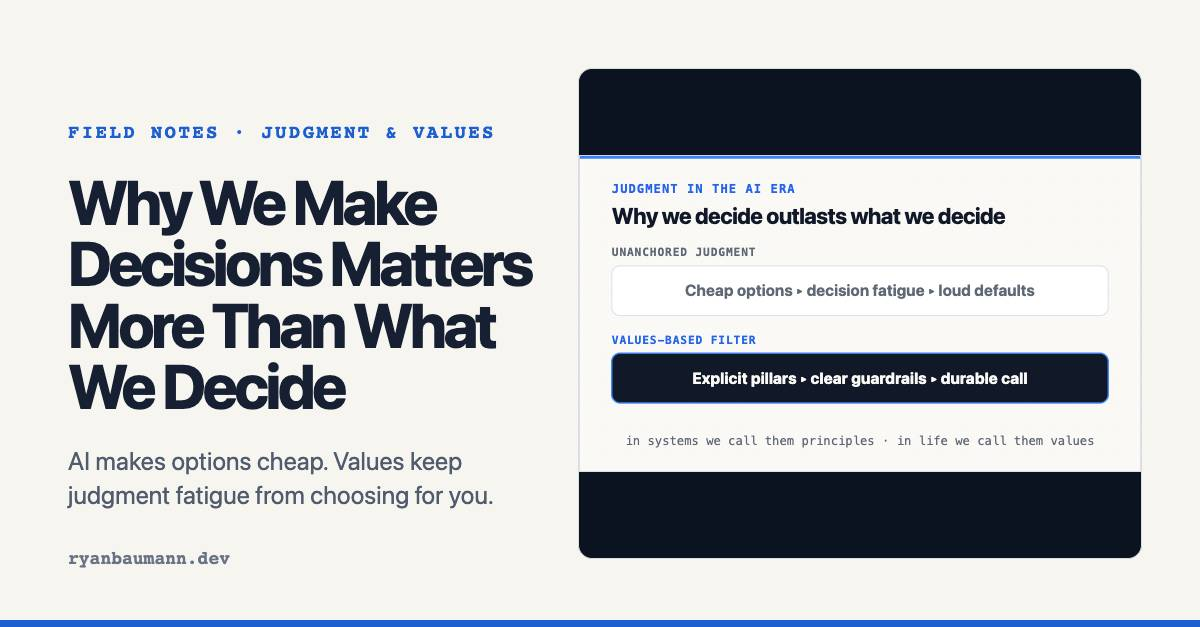
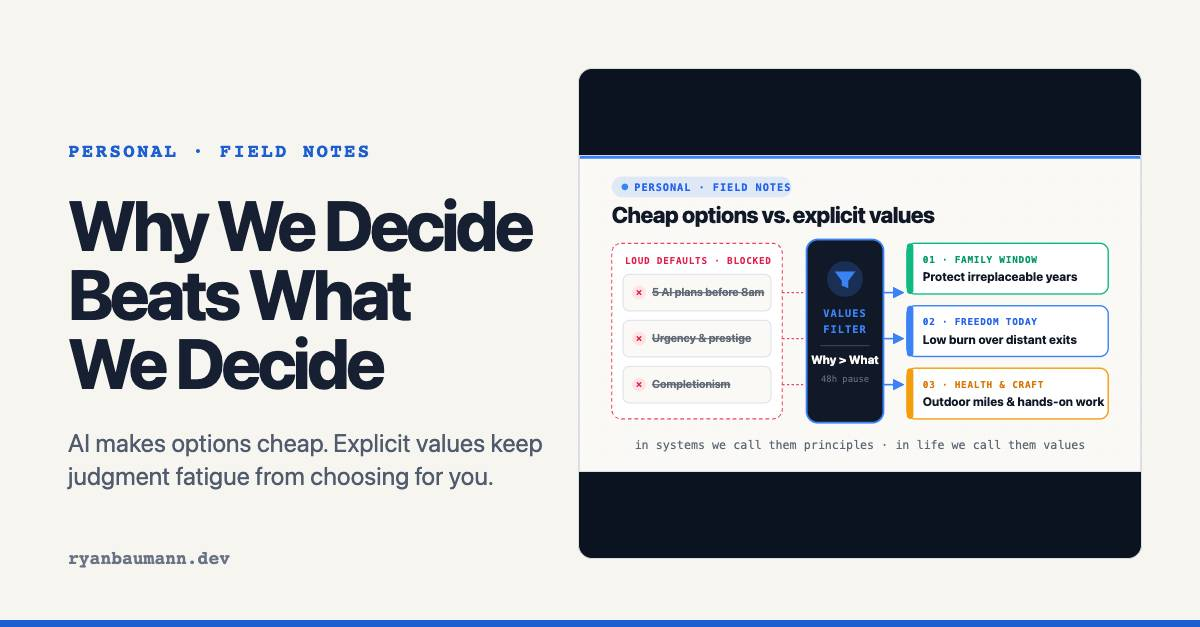
writing: shorten headline, add Personal category, LinkedIn blurb, and header thumbnail

diff --git a/portfolio/content/writing/why-we-make-decisions.md b/portfolio/content/writing/why-we-make-decisions.md
@@ -1,29 +1,47 @@
 ---
-title: Why We Make Decisions Is More Important Than What Decisions We Make
+title: Why We Decide Beats What We Decide
 slug: why-we-make-decisions
+type: Personal
 summary: AI makes generating options nearly free, which shifts the bottleneck to human judgment and makes explicit personal values the only durable filter against decision fatigue.
 date: 2026-11-01
 updated: 2026-11-01
 canonical: https://ryanbaumann.dev/writing/why-we-make-decisions/
 image: /img/writing/why-we-make-decisions-header.svg
-imageAlt: Two horizontal tracks contrast unanchored judgment, where cheap options lead to decision fatigue and loud defaults, with a values-based filter where explicit pillars and guardrails produce a durable call.
+imageAlt: A values filter diagram showing noisy defaults on the left (five AI plans before 8am, urgency and prestige, and completionism) blocked by a central Values Filter gate, while three personal pillars pass through on the right: Family Window, Freedom Today, and Health and Craft.
 socialImage: /social/why-we-make-decisions.jpg
-shareTitle: Why We Make Decisions Matters More Than What We Decide
+shareTitle: Why We Decide Matters More
 shareSummary: AI makes options cheap, which maxes out judgment fatigue across work and life. Writing down explicit values is how you keep loud defaults from choosing for you.
-shareImageAlt: A social preview card contrasting unanchored judgment and decision fatigue against an explicit values-based filter.
-tags: ["ai", "product", "field notes"]
+shareImageAlt: A social preview card for Why We Decide Beats What We Decide showing noisy defaults blocked by a Values Filter gate while three personal pillars pass through.
+tags: ["personal", "ai", "field notes"]
 draft: true
 noindex: true
 ---
 
-"You just need better options" is the lie you tell yourself when you're tired of deciding. Late on a Sunday night a few weeks ago, my partner and I were staring at a spreadsheet of trade-offs for our next few years, and I realized I was arguing for an option I didn't even want. I've been trying to make a bunch of consequential decisions lately, and the fatigue had quietly shifted my criteria toward reasons that aren't actually important to me. Maybe that's just a function of getting older, or maybe it comes with a growing family where evenings and energy have hard limits; whatever the mix, I get it. Yet watching AI compress every workflow around us, I think judgment fatigue is maxing out for everybody right now, regardless of what stage of life they're in.
+"You just need better options" is the lie you tell yourself when you're tired of deciding. Late on a Sunday night, my partner and I stared at a spreadsheet of trade-offs for our next few years, and I caught myself arguing for a path I didn't even want. I've been trying to make a bunch of hard decisions lately, and the fatigue had quietly shifted my criteria toward reasons that aren't actually important to me. Maybe that's a function of getting older, or maybe it comes with a growing family where evenings and energy have strict limits. Whatever the mix, watching AI speed up the work around us makes one thing clear: judgment fatigue is maxing out for everybody right now, at every stage of life.
 
-When generation gets cheap, evaluation becomes the whole game. As I wrote in [When the Answer Gets Cheap, the Question Becomes the Job](/writing/ai-saves-the-hour/), our tools eat the mechanical middle of assembling options and leave us with the harder work of deciding which constraint is binding. Aristotle drew a sharp line between technical skill (*techne*), which knows how to build a road, and practical wisdom (*phronesis*), which knows why one destination is worth the trip in a finite, messy life. When an agent or a colleague can hand you five defensible plans before breakfast, having more options doesn't make you wiser; without a clear aim, it just burns through your judgment faster until you rubber-stamp whatever looks urgent or prestigious.
+AI makes generating options cheap, which makes human judgment the bottleneck. As I found when building [an AI writing agent that doesn't write slop](/writing/can-i-build-an-ai-agent-that-doesnt-write-slop/), our tools handle the grunt work of assembling drafts and options, leaving us with the harder job of deciding what actually matters. Aristotle drew a sharp line between technical skill (*techne*), which knows how to build a road, and practical wisdom (*phronesis*), which knows why one destination is worth the trip in a finite life. When an agent or a colleague can hand you five plausible plans before breakfast, having more options doesn't make you wiser. Without a clear aim, it just burns through your judgment faster until you sign off on whatever looks urgent or prestigious.
 
 ![Two side-by-side panels show zero-weight motives to cut on the left and core pillars to protect on the right: irreplaceable family time, low-burn optionality, and high-agency craft and vitality.](/img/writing/why-we-make-decisions-filter.svg)
 
-In engineering, we keep an agent or a team from drifting by writing down operating principles and [agentic evals](/work/agentic-evals/) before we inspect the output; in life, I call those principles values. What do you want out of your life, and what do you want out of your job? Being intentional about those answers is more important than ever, so my partner and I wrote ours down around a few core pillars: protecting irreplaceable windows with our family before those years pass, keeping our fixed monthly burn low so we buy autonomy today rather than deferring it to a distant exit date, and staying healthy for challenging outdoor runs and rides while doing high-agency technical craft.
+In engineering, we keep an agent or a team from drifting by writing down operating principles and [evaluation criteria](/work/agentic-evals/) before we grade the work; in life, I call those principles values. What do you want out of your life, and what do you want out of your job? Being intentional about those answers is more important than ever, so my partner and I wrote ours down around three pillars: protecting irreplaceable years with our family while our window together is wide open, keeping our fixed monthly burn low so we buy freedom today instead of deferring it to a distant exit date, and staying healthy for long outdoor runs and rides while doing hands-on technical work.
 
-The real value of that list shows up when you use it to strip zero-weight motives out of the room before you score a single option. Whenever my partner and I evaluate a major commitment at home or in my career, we sort the drivers into two buckets: we keep recurring joy, craft, and coaching capable builders, and we assign zero weight to completionism ("while we're already in here, we might as well do the whole thing"), title scarcity, or acting as a human shock absorber for a broken system. We also test the actual week rather than the pitch, because loving a problem space like enterprise AI agents won't protect your health or your family calendar if the role lacks the trust and commitment authority to cut scope when a dependency slips.
+That list earns its keep by stripping noise out of the room before you score a single option. Whenever my partner and I weigh a major commitment at home or in my career, we separate the motives that matter from the ones that just sound convincing: we keep recurring joy, craft, and mentoring capable builders, and we give zero weight to completionism ("while we're already in here, we might as well do the whole thing"), title chasing, or serving as a human buffer for a broken system. We also test the actual Tuesday rather than the pitch, because loving a domain like enterprise AI agents won't protect your health or your family calendar if you lack the trust and authority to cut scope when a dependency slips.
 
-I'm still figuring out how to hold that line when a week gets noisy, and I still catch myself reaching for the easy default when I'm tired. Having our values on paper just means my partner and I can spot the drift early, pause for forty-eight hours, and make sure why we're deciding matches the life we're trying to build. How are you keeping judgment fatigue from hijacking your big calls? Let me know in the comments or [send me a note](/contact/).
+I still slip when a week gets noisy, and I still catch myself reaching for the easy default when I'm tired. Putting our values on paper gives my partner and me a way to spot that drift early, pause for forty-eight hours, and check that why we're deciding matches the life we're trying to build. How are you keeping judgment fatigue from steering your big calls? Let me know in the comments or [send me a note](/contact/).
+
+---
+
+## LinkedIn Blurb {#linkedin-blurb}
+
+> "You just need better options" is the lie you tell yourself when you're tired of deciding.
+>
+> Late on a Sunday night, my partner and I stared at a spreadsheet of trade-offs for our next few years, and I caught myself arguing for a path I didn't even want. Decision fatigue had quietly shifted my criteria toward reasons that aren't actually important to me.
+>
+> AI makes generating options nearly free, which makes human judgment the real bottleneck. When an agent or a colleague can hand you five plausible plans before breakfast, more options don't make you wiser. They just burn through your judgment faster until you sign off on whatever looks urgent or prestigious.
+>
+> In engineering, we keep an agent from drifting by writing down operating principles before we grade the output. In life, I call those principles values:
+> 1. **Protect the family window:** Trade upside for presence while our years together at home are wide open.
+> 2. **Buy freedom today:** Keep fixed monthly burn low instead of deferring autonomy to a distant exit date.
+> 3. **Stay close to health and craft:** Protect outdoor miles and hands-on building over status or completionism.
+>
+> Full note on why we decide vs. what we decide: [https://ryanbaumann.dev/writing/why-we-make-decisions/?utm_source=linkedin&utm_medium=organic_social&utm_campaign=fn_why_we_make_decisions_202611&utm_content=post_hook_a](https://ryanbaumann.dev/writing/why-we-make-decisions/?utm_source=linkedin&utm_medium=organic_social&utm_campaign=fn_why_we_make_decisions_202611&utm_content=post_hook_a)

diff --git a/LEARNINGS.md b/LEARNINGS.md
@@ -2,6 +2,16 @@
 
 This log captures durable lessons discovered while building and maintaining the portfolio and demo lab, keeping the root instructions lean.
 
+## 2026-11-01 - Draft essays in `portfolio/content/writing/` cannot link to other unpublished drafts unless both publish together
+
+Context: Adding `portfolio/content/writing/why-we-make-decisions.md` (`draft: true`) with an internal link to `/writing/ai-saves-the-hour/` passed `PORTFOLIO_WRITER_MODE=true node portfolio/build.mjs` and `npm run check:content`, but failed `node portfolio/build.mjs` (`npm --prefix portfolio test`) with `broken internal link /writing/ai-saves-the-hour/`. Additionally, previewing the draft in `scripts/writer_app.mjs` (`http://localhost:8090/`) omitted the frontmatter hero thumbnail (`meta.image`) and returned `404` on `/img/writing/...` assets.
+
+Learning: `validateContent()` in `portfolio/build.mjs` validates internal links across all markdown entries (including `draft: true` entries) against `validPaths`, which in non-writer builds only includes published entries (`draft: false`). Linking from any markdown entry to an unpublished draft breaks the production portfolio build. Second, `scripts/writer_app.mjs` compiles markdown independently of `portfolio/dist/` and needed both `<img class="article-hero" ...>` in `renderFullArticleHtml` / `renderRichDiffArticleHtml` and static file serving from `portfolio/static/` to display header and inline images in Preview and Rich Diff modes. Third, `scripts/social-cards.mjs` can fail after a Playwright version bump if the new `chromium_headless_shell` revision is not yet downloaded; falling back to `{ headless: true, channel: 'chrome' }` keeps local social-card generation working without requiring a browser download.
+
+Evidence: `npm --prefix portfolio test` failed at `node build.mjs` with `writing/why-we-make-decisions: broken internal link /writing/ai-saves-the-hour/` until the link was pointed to a published essay (`/writing/can-i-build-an-ai-agent-that-doesnt-write-slop/`), and `scripts/writer_app.mjs` returned `404 Not Found` on `/img/writing/why-we-make-decisions-header.svg` until `portfolio/static/` resolution was added.
+
+Use next time: Only link to published routes (`draft: false`) inside `portfolio/content/**`, even when authoring a draft post, and run `npm --prefix portfolio test` (which runs both unit tests and `node build.mjs`) in addition to `build:writer`.
+
 ## 2026-10-31 - `jsdom@30` and `undici@8` require Node 22+ (`zlib.createZstdDecompress`) and `build-and-smoke` must gate on `package-checks`
 
 Context: Upgrading `vitest` to `5.0.5` and `jsdom` to `30.1.3` in `demos/real-world-reasoning-agent` passed locally on Node 25 but failed in GitHub Actions CI when `.github/workflows/ci.yml` was pinned to `node-version: 20`. Because `build-and-smoke` (`Build all apps + gateway smoke test`) only depended on `docker-build` and `demos/real-world-reasoning-agent checks` was not listed in branch protection's `required_status_checks`, GitHub auto-merge completed before the failing matrix check blocked it.

diff --git a/CHANGELOG.md b/CHANGELOG.md
@@ -4,6 +4,11 @@ All notable changes to this project will be documented in this file.
 
 ## [Unreleased]
 
+- **Writing draft (`portfolio/content/writing/why-we-make-decisions.md`, `portfolio/build.mjs`, `scripts/lib/content-rules.mjs`, `scripts/writer_app.mjs`, `scripts/artifact-cards.mjs`, `scripts/social-cards.mjs`, `portfolio/static/img/writing/why-we-make-decisions-*.svg`, `portfolio/static/social/why-we-make-decisions.jpg`)**:
+  - Added the 5-paragraph draft essay *Why We Decide Beats What We Decide* (`draft: true`, `noindex: true`, `type: Personal`, `tags: ["personal", "ai", "field notes"]`) on judgment fatigue in the AI era and using explicit values as a decision filter, with an inline LinkedIn blurb for review in Writer Studio.
+  - Added `'personal'` to `DOMAIN_TAGS` in `scripts/lib/content-rules.mjs` and surfaced `meta.type` in the article eyebrow and metadata on `portfolio/build.mjs` and `scripts/writer_app.mjs`.
+  - Added SVG header and inline filter diagrams (`why-we-make-decisions-header.svg`, `why-we-make-decisions-filter.svg`) and a 1200x627 social preview card (`why-we-make-decisions.jpg`), and updated `scripts/writer_app.mjs` to render the article hero thumbnail (`meta.image`) and serve static assets from `portfolio/static/`.
+  - Updated `scripts/social-cards.mjs` to fall back to `channel: 'chrome'` when Playwright's bundled headless shell binary revision is not present in the local cache.
 - **Dependency, security, email, and DNS hardening (`gateway/lib/rateLimit.js`, `gateway/lib/contactSpam.js`, `gateway/server.js`, `docs/DOMAIN_MIGRATION.md`, `.github/dependabot.yml`, `.github/workflows/ci.yml`, `.github/workflows/dependabot-auto-merge.yml`, `Dockerfile`, `cloudbuild.yaml`, `demos/*/package.json`)**:
   - Upgraded all workspace demo dependencies and lockfiles to current releases across `demos/aqi-map`, `demos/isochrones`, `demos/voice-studio`, `demos/hairstyle-ai-studio`, `demos/infographic-agent`, `demos/strava-explorer`, and `demos/real-world-reasoning-agent` (including `vitest` 5.0.5, `jsdom` 30.1.3, `@deck.gl/*` 9.4.1, `@google/genai` 2.32.0, `lucide-react` 1.66.0, `eslint` 10.14.0, and `@types/google.maps` 3.66.9).
   - Upgraded `.github/workflows/ci.yml`, `Dockerfile`, and `cloudbuild.yaml` from EOL Node 20 (`node:20-slim`) to Node 22 LTS (`node:22-slim`), gated the branch-protected `Build all apps + gateway smoke test` check on `package-checks` in addition to `docker-build`, and enabled automatic squash merge for all Dependabot PRs in `.github/workflows/dependabot-auto-merge.yml`.
